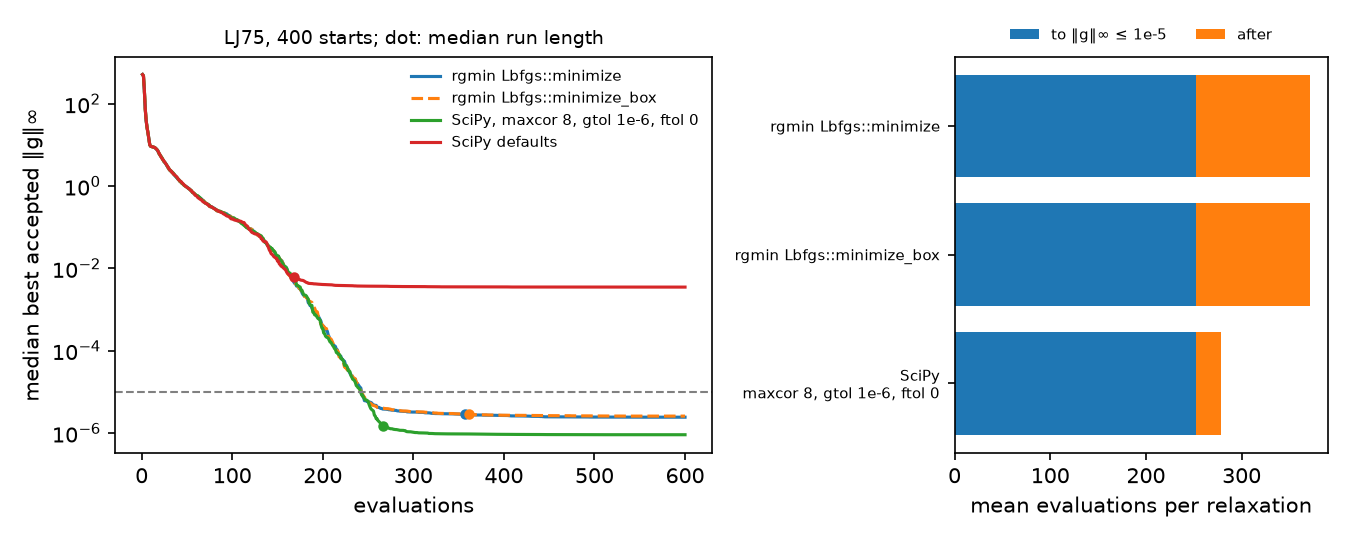
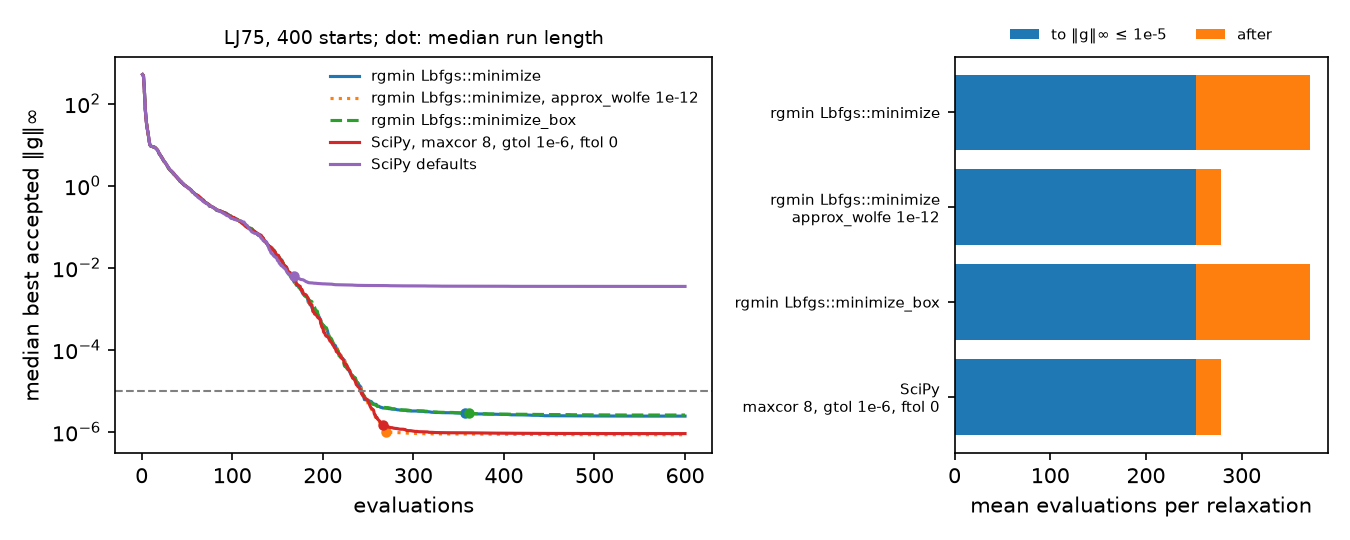
docs(sota): measure the approximate Wolfe test against SciPy
examples/lbfgsb_bench.rs gains the arms lbfgs-approx and
lbfgs-box-approx, which set approx_wolfe = 1e-12, and runs driver1
both ways.
The default arms give the same traces as before.
On the 400 starts of the 75-atom Lennard-Jones (LJ75) protocol,
Lbfgs::minimize with approx_wolfe = 1e-12 needs 278.6 evaluations per
relaxation against 371.2 with the default strict search.
Limited-memory Broyden-Fletcher-Goldfarb-Shanno with bounds (L-BFGS-B)
in SciPy 1.18.1 needs 278.5 with the same memory and tolerance and ftol
= 0.
With the test, every rgmin run ends below the gtol of 1e-6, against 6 of
400 with the strict search and 284 with SciPy.
After the first point with a largest gradient component of at most 1e-5,
a run spends 26.3 evaluations on average, against 118.8 with the strict
search and 25.9 for SciPy.
minimize_box with the test needs 278.3.
On driver1 all 20 traces are the same with and without the test.
The figure, reference/sota and both changelogs give the new numbers and
say why the test is off by default.

diff --git a/examples/lbfgsb_bench.rs b/examples/lbfgsb_bench.rs
@@ -13,7 +13,9 @@
 //! `||g||_inf < 1e-6`). `lbfgs-box` is `Lbfgs::minimize_box`, the
 //! generalized Cauchy point and subspace step, with the same settings
 //! on `lj75` and with 5 pairs and `1e-5` on `driver1`, the values of the
-//! L-BFGS-B driver. The iteration cap is 3000 per run.
+//! L-BFGS-B driver. `lbfgs-approx` and `lbfgs-box-approx` repeat them
+//! with `approx_wolfe = 1e-12`, which turns on the approximate Wolfe
+//! test. The iteration cap is 3000 per run.
 //!
 //! The starts go to the file named by the first argument as
 //! `problem x_1 ... x_n`, one per line, so that
@@ -172,21 +174,21 @@ fn trace(
         }
         true
     };
-    let (f, evals) = match arm {
-        "lbfgs" => {
-            let (f, _, e) = Lbfgs::default().minimize_watched(p.view(), 3000, logged, watch);
-            (f, e)
-        }
-        _ => {
-            let mut opt = Lbfgs::default();
-            if problem == "driver1" {
-                opt = Lbfgs::with_capacity(5);
-                opt.gtol = 1e-5;
-            }
-            let (f, _, e) =
-                opt.minimize_box_watched(p.view(), lo.view(), hi.view(), 3000, logged, watch);
-            (f, e)
-        }
+    let mut opt = Lbfgs::default();
+    if problem == "driver1" {
+        opt = Lbfgs::with_capacity(5);
+        opt.gtol = 1e-5;
+    }
+    if arm.ends_with("-approx") {
+        opt.approx_wolfe = 1e-12;
+    }
+    let (f, evals) = if arm.starts_with("lbfgs-box") {
+        let (f, _, e) =
+            opt.minimize_box_watched(p.view(), lo.view(), hi.view(), 3000, logged, watch);
+        (f, e)
+    } else {
+        let (f, _, e) = opt.minimize_watched(p.view(), 3000, logged, watch);
+        (f, e)
     };
     let log = log.into_inner();
     assert_eq!(log.len(), evals);
@@ -222,12 +224,14 @@ fn main() {
         Array1::from_elem(25, 100.0),
     );
     println!("problem,arm,start,eval,f,ginf,accepted");
-    for arm in ["lbfgs", "lbfgs-box"] {
+    for arm in ["lbfgs", "lbfgs-approx", "lbfgs-box", "lbfgs-box-approx"] {
         for (k, p) in lj75.iter().enumerate() {
             trace("lj75", arm, k, p, lj, &free);
         }
     }
-    for (k, p) in drv.iter().enumerate() {
-        trace("driver1", "lbfgs-box", k, p, driver1, &boxed);
+    for arm in ["lbfgs-box", "lbfgs-box-approx"] {
+        for (k, p) in drv.iter().enumerate() {
+            trace("driver1", arm, k, p, driver1, &boxed);
+        }
     }
 }

diff --git a/docs/figures/lbfgsb/plot_lbfgsb.py b/docs/figures/lbfgsb/plot_lbfgsb.py
@@ -27,9 +27,10 @@ import matplotlib.pyplot as plt  # noqa: E402
 
 HERE = pathlib.Path(__file__).resolve().parent
 TOL = 1e-5
-STYLE = {"lbfgs-box": "--"}
+STYLE = {"lbfgs-box": "--", "lbfgs-approx": ":"}
 LJ75_ARMS = {
     "lbfgs": "rgmin Lbfgs::minimize",
+    "lbfgs-approx": "rgmin Lbfgs::minimize, approx_wolfe 1e-12",
     "lbfgs-box": "rgmin Lbfgs::minimize_box",
     "scipy-m8-noftol": "SciPy, maxcor 8, gtol 1e-6, ftol 0",
     "scipy-default": "SciPy defaults",

diff --git a/docs/source/reference/sota.rst b/docs/source/reference/sota.rst
@@ -63,7 +63,8 @@ Lennard-Jones, 75 atoms
 The 75-atom Lennard-Jones (LJ75) protocol is anneal's ``examples/warm_quench_lj.rs``: 400 relaxations from perturbed minima, overlaps repaired first, no bounds.
 ``examples/lbfgsb_bench.rs`` rebuilds the same starts and traces rgmin.
 ``docs/figures/lbfgsb/bench_lbfgsb.py`` runs SciPy 1.18.1 on those starts.
-rgmin is ``develop`` at d27b2387 with ``minimize_box`` added; the ``minimize`` arm computes the same bits as ``develop``.
+rgmin is ``develop`` at d27b2387 with ``minimize_box`` and ``approx_wolfe`` added; the ``minimize`` arm computes the same bits as ``develop``.
+The two ``approx_wolfe = 1e-12`` arms turn on the approximate Wolfe test (:doc:`../explanation/linesearch`).
 
 .. table::
 
@@ -74,15 +75,19 @@ rgmin is ``develop`` at d27b2387 with ``minimize_box`` added; the ``minimize`` a
     +---------------------------------------------------+----------------------------+---------------------+-------+----------------------+
     | ``Lbfgs::minimize_box``                           |                      371.0 |               251.8 | 119.2 |              2.67e-5 |
     +---------------------------------------------------+----------------------------+---------------------+-------+----------------------+
+    | ``Lbfgs::minimize``, ``approx_wolfe = 1e-12``     |                      278.6 |               252.3 |  26.3 |              9.99e-7 |
+    +---------------------------------------------------+----------------------------+---------------------+-------+----------------------+
+    | ``Lbfgs::minimize_box``, ``approx_wolfe = 1e-12`` |                      278.3 |               251.7 |  26.6 |              9.99e-7 |
+    +---------------------------------------------------+----------------------------+---------------------+-------+----------------------+
     | L-BFGS-B, ``maxcor 8``, ``gtol 1e-6``, ``ftol 0`` |                      278.5 |               252.6 |  25.9 |              1.29e-5 |
     +---------------------------------------------------+----------------------------+---------------------+-------+----------------------+
     | L-BFGS-B, SciPy defaults                          |                      181.2 |         not reached | \     |              5.63e-2 |
     +---------------------------------------------------+----------------------------+---------------------+-------+----------------------+
 
 ``gmax`` is the largest absolute gradient component at the last accepted iterate.
-The "to" column counts evaluations up to the first accepted iterate with ``gmax <= 1e-5``; every run of the first three arms gets there.
+The "to" column counts evaluations up to the first accepted iterate with ``gmax <= 1e-5``; every run of the first five arms gets there.
 The "after" column is the mean of what each of those runs spends past that point.
-The two rgmin arms end in the same minimum on all 400 starts.
+The four rgmin arms end in the same minimum on all 400 starts.
 rgmin and SciPy agree on 382 starts.
 Of the other 18, SciPy finds the lower minimum on 9 and rgmin on 9.
 
@@ -93,14 +98,19 @@ The re-measured gap is 371.2 against 278.5, 1.33 times.
 Bound handling is not the cause.
 LJ75 has no bounds.
 SciPy skips its Cauchy point when a problem has none (``mainlb`` in ``scipy/optimize/src/lbfgsb.c``, SciPy 1.18.1, commit e4e854ea), and ``minimize_box`` costs what ``minimize`` costs.
-All three converged arms reach ``gmax <= 1e-5`` after about 252 evaluations.
+Every arm that converges reaches ``gmax <= 1e-5`` after about 252 evaluations.
 The difference is the end of the run.
-Near ``gmax = 1e-6`` the energy, about -380, changes only in its last bits, so the strong Wolfe zoom cannot meet its tests.
+Near ``gmax = 1e-6`` the energy, about -380, changes only in its last bits.
+The last ten values that the default, strict search tries after its last accepted iterate differ from the value there by up to 1.6e-12, so its decrease test passes or fails on rounding.
 It spends up to 40 evaluations, drops the pairs, and spends up to 40 more from steepest descent before it stops.
-On average 68.3 evaluations per relaxation come after the last accepted iterate.
+On average 68.3 evaluations per relaxation come after the last accepted iterate, and 394 of the 400 runs end with ``gmax`` at or above the ``gtol`` of 1e-6.
+
+With ``approx_wolfe = 1e-12`` the search accepts a trial at most 1e-12 times abs(f) above the start when it meets the strong curvature test, and places such trials by the sign of their slope.
+Every run then ends on the ``gtol`` test, and no run spends an evaluation after its last accepted iterate.
+The test is off by default, since a solver reused after a large perturbation can then take a much too long first step (:doc:`../explanation/linesearch`).
 SciPy's More-Thuente search (``dcsrch``) returns a warning once rounding blocks progress, and ``lnsrlb`` takes that point as the step.
 With ``ftol = 0`` the run then stops at the first step that does not lower f (115 of 400 runs), on the gradient test (284), or on a failed line search (1).
-It spends 0.1 evaluations per relaxation after its last accepted iterate.
+It spends 0.1 evaluations per relaxation after its last accepted iterate, about as few, but 116 of its runs end with ``gmax`` at or above 1e-6.
 With SciPy's default ``ftol`` the run stops much earlier, at a median ``gmax`` of 5.7e-3, which is not a converged relaxation by this page's test.
 
 .. image:: ../../figures/lbfgsb/lj75_tail.png

diff --git a/CHANGELOG.md b/CHANGELOG.md
@@ -90,6 +90,14 @@ The format is based on [Keep a Changelog](https://keepachangelog.com/en/1.1.0/),
   On the 75-atom Lennard-Jones (LJ75) protocol, which has no bounds, it needs 371.0 evaluations per relaxation against 371.2 for `Lbfgs::minimize`, so it does not close the gap to SciPy that `reference/sota` records.
   That gap comes from the end of each relaxation, where line searches fail at the rounding floor of the energy.
   `examples/lbfgsb_bench.rs` and `docs/figures/lbfgsb/` contain the benchmark, its SciPy counterpart and the plot.
+- Opt-in `Lbfgs::approx_wolfe` stops the strong Wolfe search of `Lbfgs::minimize` and `Lbfgs::minimize_box` at the rounding floor of the value.
+  With a positive value the search accepts a trial at most `approx_wolfe` times `abs(f)` above the start when the trial meets the strong curvature test, the approximate Wolfe stop of Hager and Zhang 2005.
+  Otherwise it places that trial by the sign of its slope.
+  At the default of zero the search is strict, and every entry point returns bit for bit what it returned before.
+  On LJ75, `approx_wolfe = 1e-12` ends all 400 relaxations on the `gtol` test, against 6 without it, and they need 278.6 evaluations per relaxation against 371.2.
+  SciPy 1.18.1, with the same memory and tolerance and `ftol = 0`, needs 278.5 and ends 116 runs with the largest gradient component at or above 1e-6.
+  With the test on, a run keeps its pairs.
+  A reused solver can then take a much too long first step after a large perturbation, so the test is off by default (`explanation/linesearch`).
 - Opt-in holonomic distance constraints on every `Solver` method except particle swarm, under every `Accept` rule.
   `DistanceConstraints::at` fixes atom pairs at their lengths in a geometry, and `DistanceConstraints::new` takes the lengths as given.
   `with_masses` sets one mass per atom, and masses are one until it is called.

diff --git a/docs/source/changelog.rst b/docs/source/changelog.rst
@@ -15,6 +15,15 @@ On the 75-atom Lennard-Jones (LJ75) protocol, which has no bounds, it needs 371.
 That gap comes from the end of each relaxation, where line searches fail at the rounding floor of the energy.
 ``examples/lbfgsb_bench.rs`` and ``docs/figures/lbfgsb/`` contain the benchmark, its SciPy counterpart and the plot.
 
+Opt-in ``Lbfgs::approx_wolfe`` stops the strong Wolfe search of ``Lbfgs::minimize`` and ``Lbfgs::minimize_box`` at the rounding floor of the value.
+With a positive value the search accepts a trial at most ``approx_wolfe`` times abs(f) above the start when the trial meets the strong curvature test, the approximate Wolfe stop of Hager and Zhang 2005.
+Otherwise it places that trial by the sign of its slope.
+At the default of zero the search is strict, and every entry point returns bit for bit what it returned before.
+On LJ75, ``approx_wolfe = 1e-12`` ends all 400 relaxations on the ``gtol`` test, against 6 without it, and they need 278.6 evaluations per relaxation against 371.2.
+SciPy 1.18.1, with the same memory and tolerance and ``ftol = 0``, needs 278.5 and ends 116 runs with the largest gradient component at or above 1e-6.
+With the test on, a run keeps its pairs.
+A reused solver can then take a much too long first step after a large perturbation, so the test is off by default (:doc:`explanation/linesearch`).
+
 ``Lbfgs::ftol`` is the opt-in relative-decrease stop of L-BFGS-B, and its default of zero turns it off.
 A line-search step from ``f_k`` to ``f_{k+1}`` ends ``minimize``, ``minimize_watched`` and ``minimize_recognized`` when ``f_k - f_{k+1} <= ftol * max(|f_k|, |f_{k+1}|, 1)``.
 ``LBFGSB_FTOL`` is the SciPy default, and :doc:`reference/sota` measures what it saves.
